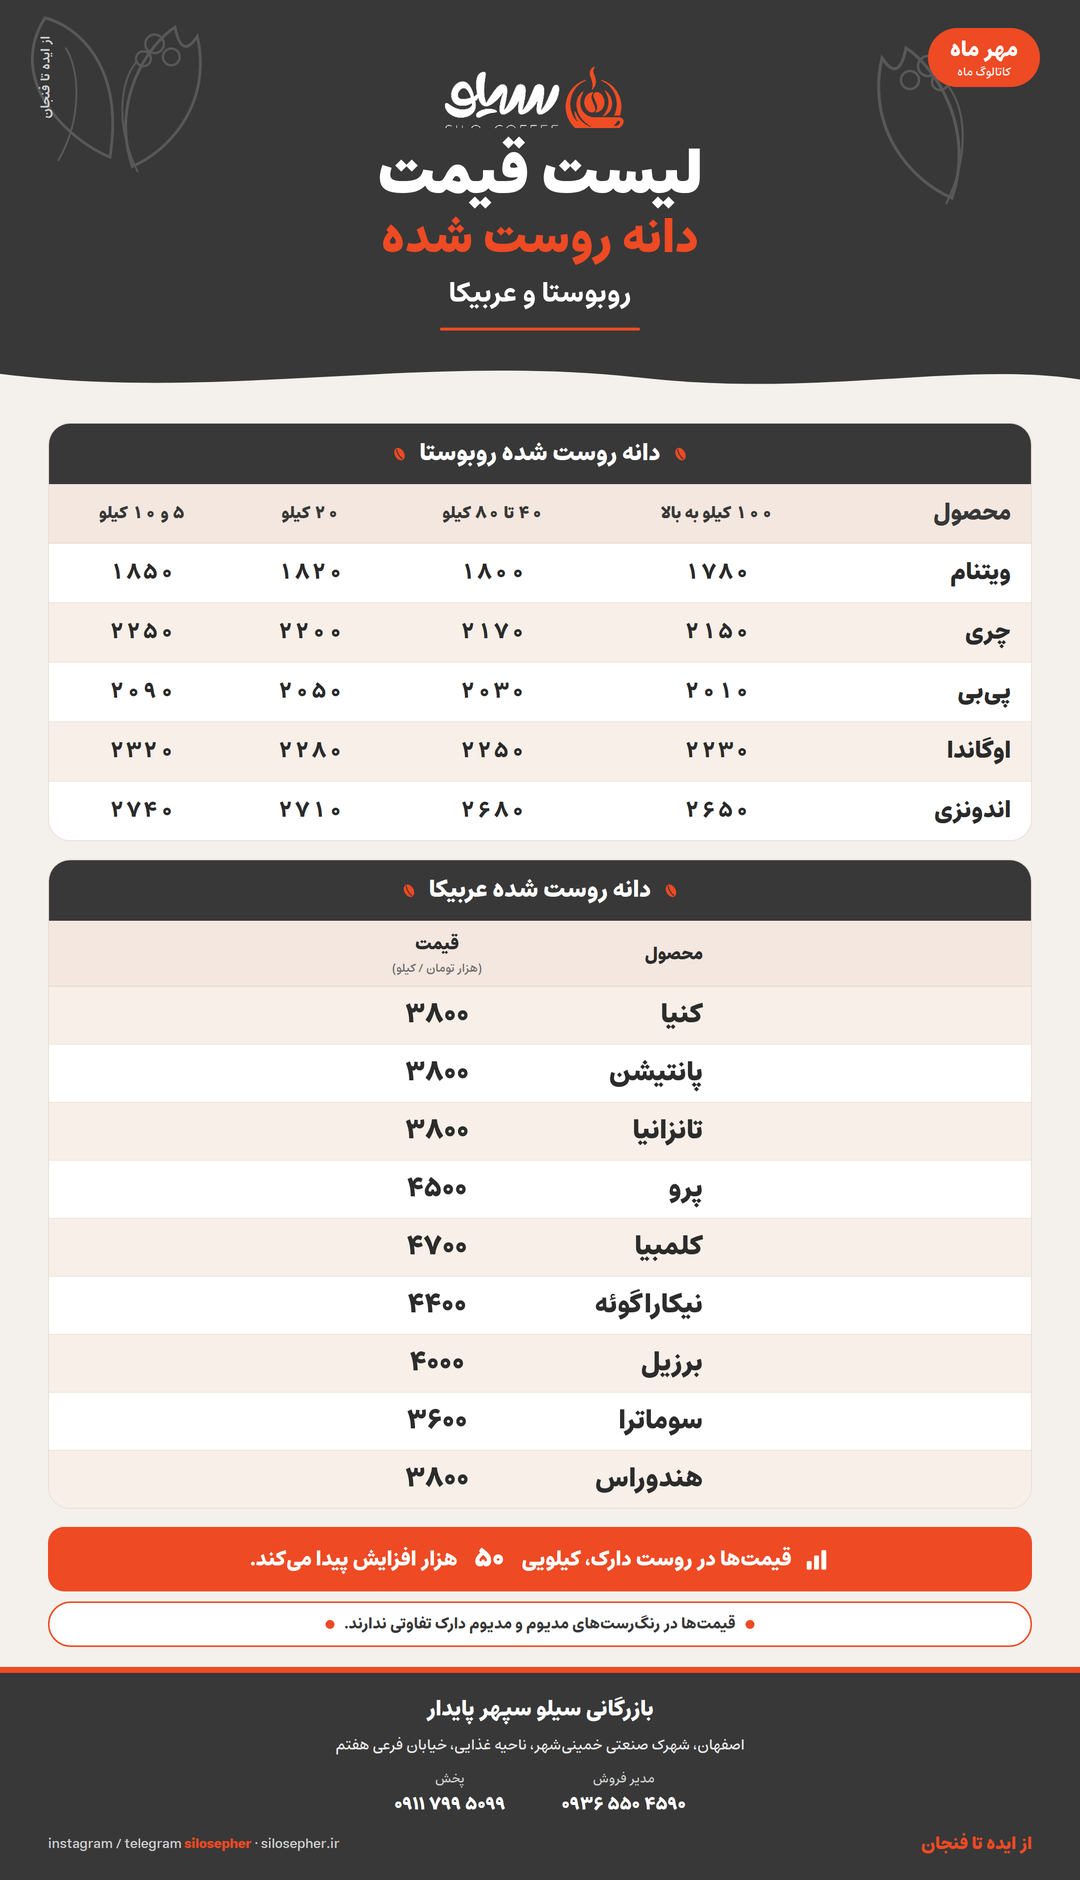
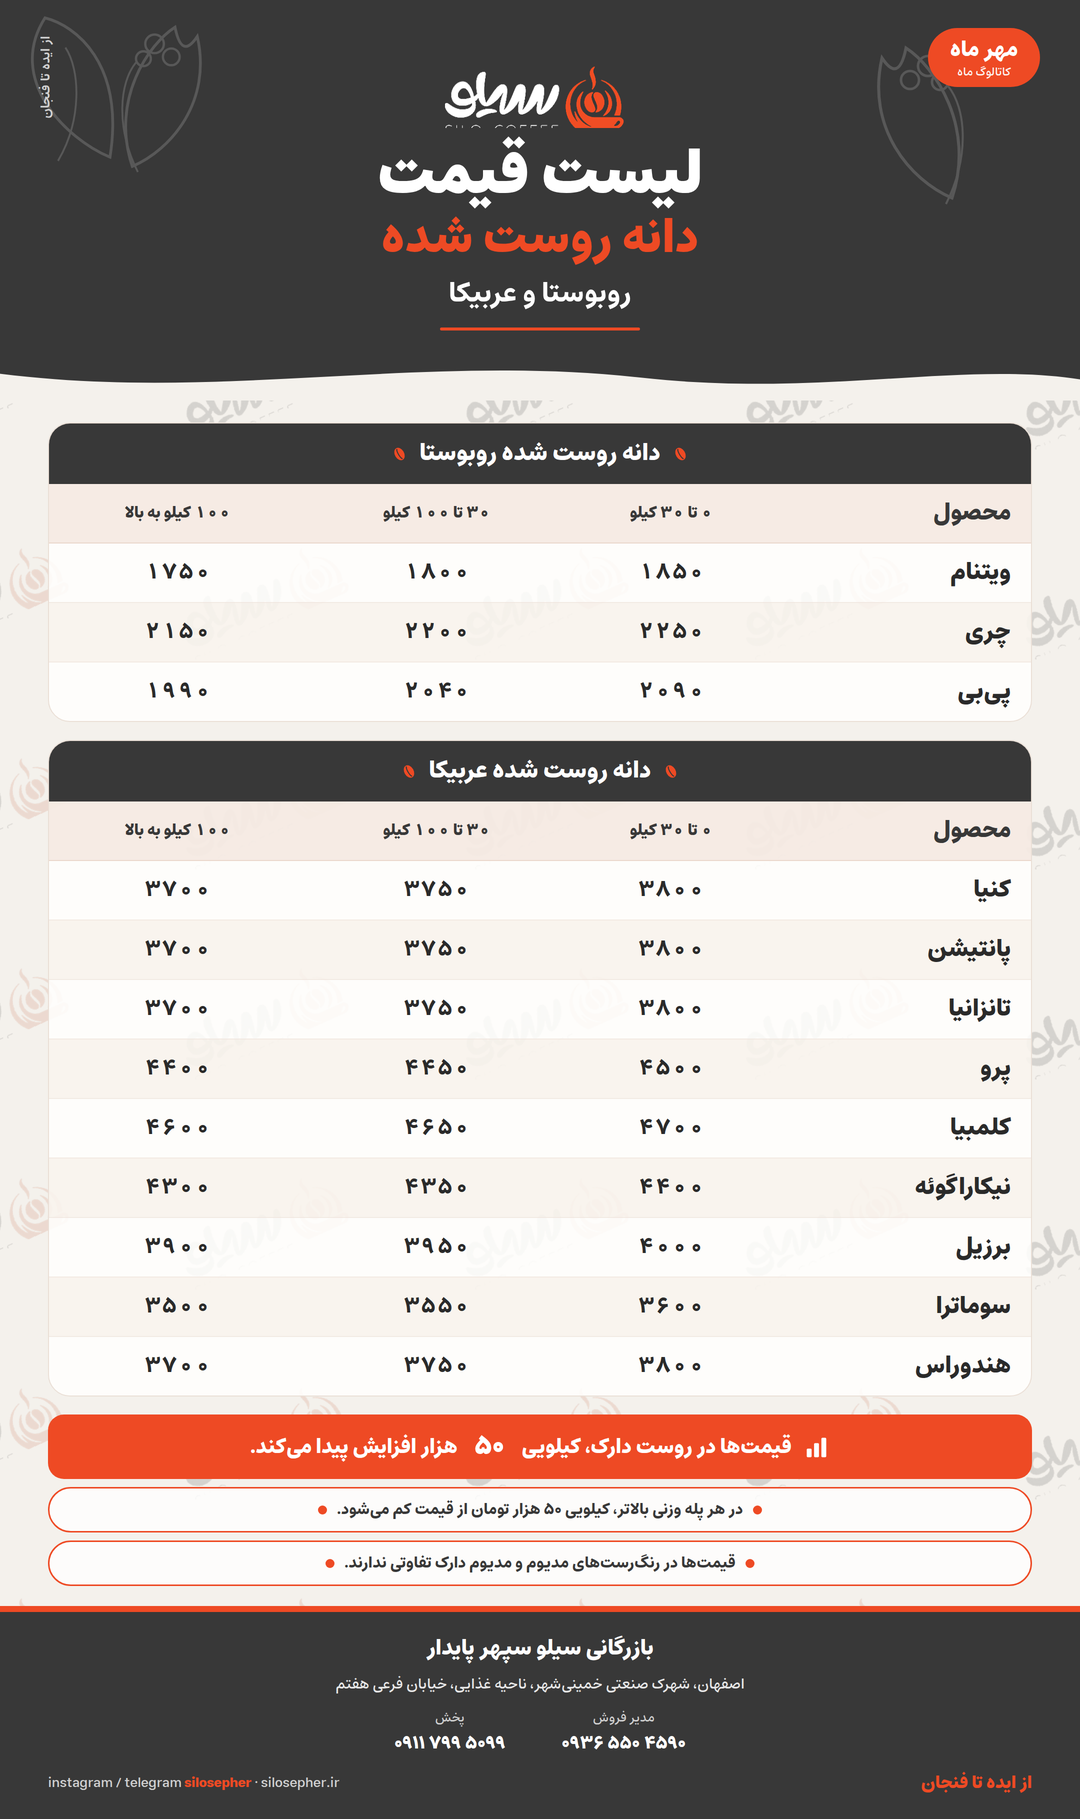
Add SILO paper watermark and three weight-price tiers
Repeat a faded SILO mark on the cream paper so the list is harder to copy, collapse volume pricing to 0–30 / 30–100 / 100+ kg with 50 thousand toman off each step, and keep Vietnam, Cherry, and PB as the three robusta SKUs until the house blends arrive.

diff --git a/catalog/index.html b/catalog/index.html
@@ -136,14 +136,23 @@
       display: block;
     }
 
-    .body { padding: 22px 48px 20px; }
+    .body {
+      position: relative;
+      padding: 22px 48px 20px;
+      background-color: var(--paper);
+      background-image: url("img/silo-watermark.png");
+      background-repeat: repeat;
+      background-size: 280px 210px;
+      background-position: center;
+    }
 
     .card {
-      background: var(--paper-2);
+      background: rgba(255, 253, 249, 0.72);
       border: 1px solid #eadfd6;
       border-radius: 22px;
       overflow: hidden;
       margin-bottom: 18px;
+      position: relative;
     }
 
     .section-title {
@@ -170,53 +179,27 @@
       font-size: 22px;
     }
     th {
-      background: #f3e7df;
+      background: rgba(243, 231, 223, 0.78);
       color: var(--ink);
       font-weight: 800;
-      font-size: 17px;
+      font-size: 16px;
       border-bottom: 1px solid #ead7cb;
     }
     td {
       font-weight: 700;
       color: #2a2a2a;
-      border-bottom: 1px solid #f0e6de;
+      border-bottom: 1px solid rgba(240, 230, 222, 0.8);
     }
     td.prod, th.prod {
       text-align: right;
       padding-right: 20px;
       font-weight: 800;
       font-size: 24px;
-      width: 20%;
+      width: 26%;
     }
-    tbody tr:nth-child(even) td { background: var(--stripe); }
-    tbody tr:nth-child(odd) td { background: #fff; }
+    tbody tr:nth-child(even) td { background: rgba(247, 239, 232, 0.58); }
+    tbody tr:nth-child(odd) td { background: rgba(255, 255, 255, 0.52); }
     tbody tr:last-child td { border-bottom: 0; }
-
-    .ara-head, .ara-row {
-      display: grid;
-      grid-template-columns: 1fr auto auto 1fr;
-      column-gap: 36px;
-      align-items: center;
-    }
-    .ara-head {
-      background: #f3e7df;
-      padding: 10px 0 8px;
-      border-bottom: 1px solid #ead7cb;
-      font-weight: 800;
-      font-size: 18px;
-    }
-    .ara-row {
-      padding: 8px 0;
-      font-size: 27px;
-      font-weight: 800;
-      border-bottom: 1px solid #f0e6de;
-    }
-    .ara-row:nth-child(even) { background: #fff; }
-    .ara-row:nth-child(odd) { background: var(--stripe); }
-    .ara-row:last-child { border-bottom: 0; }
-    .ara-head .prod, .ara-row .prod { grid-column: 2; text-align: right; min-width: 170px; }
-    .ara-head .price, .ara-row .price { grid-column: 3; text-align: center; min-width: 120px; }
-    .ara-row .prod, .ara-row .price { font-size: 27px; font-weight: 800; }
 
     .unit {
       display: block;
@@ -247,7 +230,7 @@
     }
 
     .note-sub {
-      margin-top: 10px;
+      margin-top: 8px;
       border: 1.5px solid var(--orange);
       color: var(--ink);
       border-radius: 999px;
@@ -255,7 +238,7 @@
       text-align: center;
       font-weight: 700;
       font-size: 16px;
-      background: #fff;
+      background: rgba(255, 255, 255, 0.78);
       display: flex;
       align-items: center;
       justify-content: center;
@@ -384,18 +367,15 @@
           <thead>
             <tr>
               <th class="prod">محصول</th>
+              <th>۰ تا ۳۰ کیلو</th>
+              <th>۳۰ تا ۱۰۰ کیلو</th>
               <th>۱۰۰ کیلو به بالا</th>
-              <th>۴۰ تا ۸۰ کیلو</th>
-              <th>۲۰ کیلو</th>
-              <th>۵ و ۱۰ کیلو</th>
             </tr>
           </thead>
           <tbody>
-            <tr><td class="prod">ویتنام</td><td>۱۷۸۰</td><td>۱۸۰۰</td><td>۱۸۲۰</td><td>۱۸۵۰</td></tr>
-            <tr><td class="prod">چری</td><td>۲۱۵۰</td><td>۲۱۷۰</td><td>۲۲۰۰</td><td>۲۲۵۰</td></tr>
-            <tr><td class="prod">پیبی</td><td>۲۰۱۰</td><td>۲۰۳۰</td><td>۲۰۵۰</td><td>۲۰۹۰</td></tr>
-            <tr><td class="prod">اوگاندا</td><td>۲۲۳۰</td><td>۲۲۵۰</td><td>۲۲۸۰</td><td>۲۳۲۰</td></tr>
-            <tr><td class="prod">اندونزی</td><td>۲۶۵۰</td><td>۲۶۸۰</td><td>۲۷۱۰</td><td>۲۷۴۰</td></tr>
+            <tr><td class="prod">ویتنام</td><td>۱۸۵۰</td><td>۱۸۰۰</td><td>۱۷۵۰</td></tr>
+            <tr><td class="prod">چری</td><td>۲۲۵۰</td><td>۲۲۰۰</td><td>۲۱۵۰</td></tr>
+            <tr><td class="prod">پیبی</td><td>۲۰۹۰</td><td>۲۰۴۰</td><td>۱۹۹۰</td></tr>
           </tbody>
         </table>
       </section>
@@ -412,19 +392,27 @@
             <path d="M12 4c-2.1 2.6-2.2 12.8 0 16" stroke="#383838" stroke-width="1.6" fill="none" stroke-linecap="round"/>
           </svg>
         </div>
-        <div class="ara-head">
-          <span class="prod">محصول</span>
-          <span class="price">قیمت <span class="unit">(هزار تومان / کیلو)</span></span>
-        </div>
-        <div class="ara-row"><span class="prod">کنیا</span><span class="price">۳۸۰۰</span></div>
-        <div class="ara-row"><span class="prod">پانتیشن</span><span class="price">۳۸۰۰</span></div>
-        <div class="ara-row"><span class="prod">تانزانیا</span><span class="price">۳۸۰۰</span></div>
-        <div class="ara-row"><span class="prod">پرو</span><span class="price">۴۵۰۰</span></div>
-        <div class="ara-row"><span class="prod">کلمبیا</span><span class="price">۴۷۰۰</span></div>
-        <div class="ara-row"><span class="prod">نیکاراگوئه</span><span class="price">۴۴۰۰</span></div>
-        <div class="ara-row"><span class="prod">برزیل</span><span class="price">۴۰۰۰</span></div>
-        <div class="ara-row"><span class="prod">سوماترا</span><span class="price">۳۶۰۰</span></div>
-        <div class="ara-row"><span class="prod">هندوراس</span><span class="price">۳۸۰۰</span></div>
+        <table>
+          <thead>
+            <tr>
+              <th class="prod">محصول</th>
+              <th>۰ تا ۳۰ کیلو</th>
+              <th>۳۰ تا ۱۰۰ کیلو</th>
+              <th>۱۰۰ کیلو به بالا</th>
+            </tr>
+          </thead>
+          <tbody>
+            <tr><td class="prod">کنیا</td><td>۳۸۰۰</td><td>۳۷۵۰</td><td>۳۷۰۰</td></tr>
+            <tr><td class="prod">پانتیشن</td><td>۳۸۰۰</td><td>۳۷۵۰</td><td>۳۷۰۰</td></tr>
+            <tr><td class="prod">تانزانیا</td><td>۳۸۰۰</td><td>۳۷۵۰</td><td>۳۷۰۰</td></tr>
+            <tr><td class="prod">پرو</td><td>۴۵۰۰</td><td>۴۴۵۰</td><td>۴۴۰۰</td></tr>
+            <tr><td class="prod">کلمبیا</td><td>۴۷۰۰</td><td>۴۶۵۰</td><td>۴۶۰۰</td></tr>
+            <tr><td class="prod">نیکاراگوئه</td><td>۴۴۰۰</td><td>۴۳۵۰</td><td>۴۳۰۰</td></tr>
+            <tr><td class="prod">برزیل</td><td>۴۰۰۰</td><td>۳۹۵۰</td><td>۳۹۰۰</td></tr>
+            <tr><td class="prod">سوماترا</td><td>۳۶۰۰</td><td>۳۵۵۰</td><td>۳۵۰۰</td></tr>
+            <tr><td class="prod">هندوراس</td><td>۳۸۰۰</td><td>۳۷۵۰</td><td>۳۷۰۰</td></tr>
+          </tbody>
+        </table>
       </section>
 
       <div class="notes">
@@ -435,6 +423,11 @@
             <rect x="16.5" y="3" width="4.5" height="18" rx="1" fill="#fff"/>
           </svg>
           قیمتها در روست دارک، کیلویی <b>۵۰</b> هزار افزایش پیدا میکند.
+        </div>
+        <div class="note-sub">
+          <span class="dot"></span>
+          در هر پله وزنی بالاتر، کیلویی ۵۰ هزار تومان از قیمت کم میشود.
+          <span class="dot"></span>
         </div>
         <div class="note-sub">
           <span class="dot"></span>
